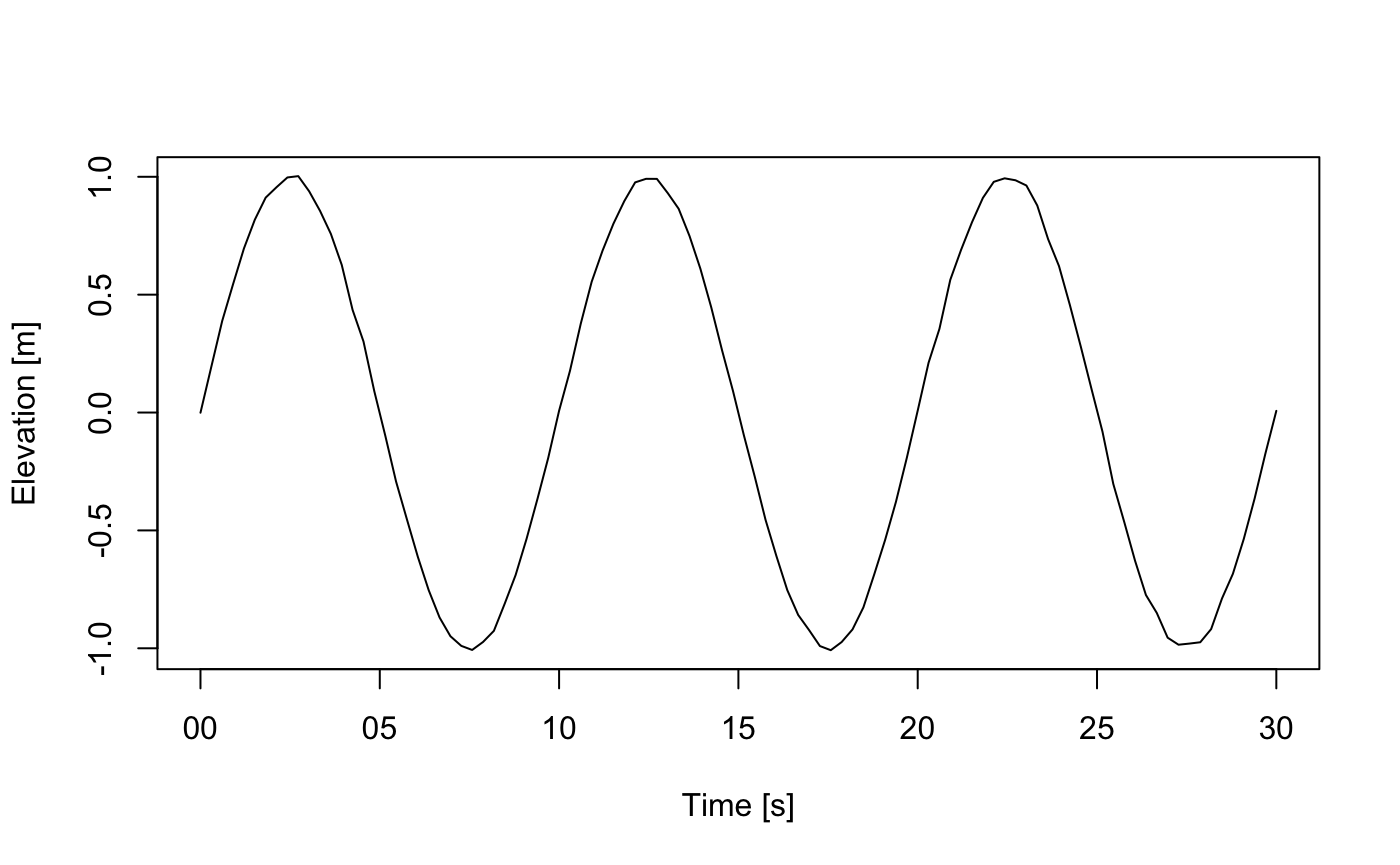
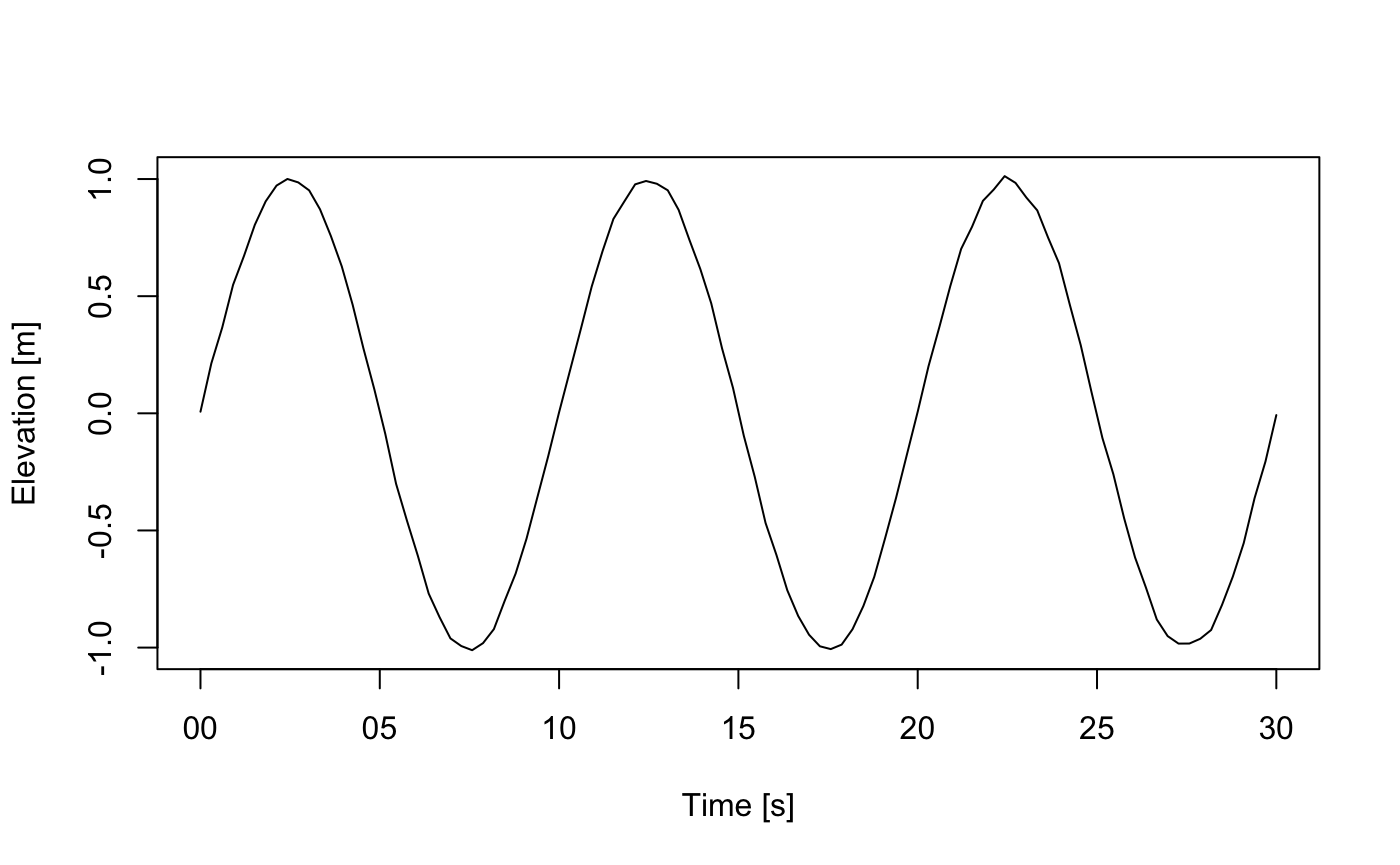
landing page gets images

diff --git a/docs/articles/subclassing.html b/docs/articles/subclassing.html
@@ -136,7 +136,7 @@
 <span class="co">#&gt;   .. ..$ flags: list()</span>
 <span class="co">#&gt;   ..@ data         : list()</span>
 <span class="co">#&gt;   ..@ processingLog:List of 2</span>
-<span class="co">#&gt;   .. ..$ time : POSIXct[1:1], format: "2020-05-05 18:23:39"</span>
+<span class="co">#&gt;   .. ..$ time : POSIXct[1:1], format: "2020-05-05 19:07:03"</span>
 <span class="co">#&gt;   .. ..$ value: chr "Create oce object"</span></pre></body></html></div>
 <p>As noted previously, it’s possible to insert <code>t</code>, <code>u</code>, and <code>v</code> directly into the <code>data</code> slot, but it’s better to use <code>oceSetData</code> to do that, because it can set up units, and it leaves a trail in the processing log.</p>
 <div class="sourceCode" id="cb4"><html><body><pre class="r"><span class="no">o</span> <span class="kw">&lt;-</span> <span class="fu"><a href="../reference/oceSetData.html">oceSetData</a></span>(<span class="no">o</span>, <span class="st">"t"</span>, <span class="no">t</span>, <span class="fu"><a href="https://rdrr.io/r/base/list.html">list</a></span>(<span class="kw">unit</span><span class="kw">=</span><span class="fu"><a href="https://rdrr.io/r/base/expression.html">expression</a></span>(<span class="no">s</span>), <span class="kw">scale</span><span class="kw">=</span><span class="st">""</span>))
@@ -155,12 +155,12 @@
 <span class="co">#&gt;     v [m/s]   -0.49996 -0.0048211    0.49998  193   0            -</span>
 <span class="co">#&gt; </span>
 <span class="co">#&gt; * Processing Log</span>
-<span class="co">#&gt;     - 2020-05-05 18:23:39 UTC: `Create oce object`</span>
-<span class="co">#&gt;     - 2020-05-05 18:23:39 UTC: `oceSetData(object = o, name = "t", value = t, unit = list(unit = expression(s),     scale = ""))`</span>
-<span class="co">#&gt;     - 2020-05-05 18:23:39 UTC: `oceSetData(object = o, name = "u", value = u, unit = list(unit = expression(m/s),     scale = ""))`</span>
-<span class="co">#&gt;     - 2020-05-05 18:23:39 UTC: `oceSetData(object = o, name = "v", value = v, unit = list(unit = expression(m/s),     scale = ""))`</span>
-<span class="co">#&gt;     - 2020-05-05 18:23:39 UTC: `oceSetMetadata(object = o, name = "longitude", value = lon)`</span>
-<span class="co">#&gt;     - 2020-05-05 18:23:39 UTC: `oceSetMetadata(object = o, name = "latitude", value = lat)`</span></pre></body></html></div>
+<span class="co">#&gt;     - 2020-05-05 19:07:03 UTC: `Create oce object`</span>
+<span class="co">#&gt;     - 2020-05-05 19:07:03 UTC: `oceSetData(object = o, name = "t", value = t, unit = list(unit = expression(s),     scale = ""))`</span>
+<span class="co">#&gt;     - 2020-05-05 19:07:03 UTC: `oceSetData(object = o, name = "u", value = u, unit = list(unit = expression(m/s),     scale = ""))`</span>
+<span class="co">#&gt;     - 2020-05-05 19:07:03 UTC: `oceSetData(object = o, name = "v", value = v, unit = list(unit = expression(m/s),     scale = ""))`</span>
+<span class="co">#&gt;     - 2020-05-05 19:07:03 UTC: `oceSetMetadata(object = o, name = "longitude", value = lon)`</span>
+<span class="co">#&gt;     - 2020-05-05 19:07:03 UTC: `oceSetMetadata(object = o, name = "latitude", value = lat)`</span></pre></body></html></div>
 <p>and individual data components may be extracted with the <code><a href="https://rdrr.io/r/base/Extract.html">[[</a></code> notation</p>
 <div class="sourceCode" id="cb7"><html><body><pre class="r"><span class="no">o</span><span class="kw">[[</span><span class="st">"latitude"</span>]]                        <span class="co"># from metadata</span>
 <span class="co">#&gt; [1] -30</span>
@@ -230,7 +230,7 @@
 <span class="co">#&gt;     v [m/s] -0.49996 -0.0048211 0.49998  193   0            -</span>
 <span class="co">#&gt; </span>
 <span class="co">#&gt; * Processing Log</span>
-<span class="co">#&gt;     - 2020-05-05 18:23:39 UTC: `create 'uv' object`</span>
+<span class="co">#&gt;     - 2020-05-05 19:07:04 UTC: `create 'uv' object`</span>
 <span class="co">#&gt; NULL</span></pre></body></html></div>
 <p>Finally, let’s make a custom method for <code>plot</code>. This is usually the most complicated part of handling any new object class, because there are usually many ways to look at data. (Some <code>oce</code> objects have over a dozen specialized plot styles.) Let’s suppose there are only two desired plot styles: one showing timeseries of <code>u</code> and <code>v</code> in a two panel plot, and the other showing how <code>u</code> and <code>v</code> covary.</p>
 <div class="sourceCode" id="cb14"><html><body><pre class="r"><span class="fu">setMethod</span>(<span class="kw">f</span><span class="kw">=</span><span class="st">"plot"</span>,
@@ -294,7 +294,7 @@
 <span class="co">#&gt;   .. ..$ flags: list()</span>
 <span class="co">#&gt;   ..@ data         : list()</span>
 <span class="co">#&gt;   ..@ processingLog:List of 2</span>
-<span class="co">#&gt;   .. ..$ time : POSIXct[1:1], format: "2020-05-05 18:23:39"</span>
+<span class="co">#&gt;   .. ..$ time : POSIXct[1:1], format: "2020-05-05 19:07:04"</span>
 <span class="co">#&gt;   .. ..$ value: chr "Create oce object"</span></pre></body></html></div>
 <p>Notice that <code>w</code> three <code>oce</code> “slots”, named <code>metadata</code>, <code>data</code> and <code>processingLog</code>. These are inherited from <code>oce</code>. The first is meant to hold information about the data, such as a file-name, an instrument number, a location of sampling, etc. The second is meant to hold actual data or measurements. And the third, not normally accessed by the user directly, holds information about the object’s evolution (note that the object considers itself an <code>oce</code> object). The names of these three slots are usually enough to keep them straight in the analyst’s head, although it can sometimes be difficult deciding whether something belongs in <code>metadata</code> or <code>data</code>.</p>
 <p>The <code>oce</code> system also provides its objects with certain operators and functions. For example, <code><a href="https://rdrr.io/r/base/Extract.html">[[</a></code> can be used to retrieve the slots, items within the slots, and (in some cases) values that may be calculated from the contents of the slots (e.g. <code>ctd</code> and similar objects related to hydrography can return calculated potential temperature or Conservative Temperature, even though neither is typically stored in such datasets).</p>
@@ -323,7 +323,7 @@
 <span class="co">#&gt;   .. ..$ station: chr "STN01"</span>
 <span class="co">#&gt;   ..@ data         : list()</span>
 <span class="co">#&gt;   ..@ processingLog:List of 2</span>
-<span class="co">#&gt;   .. ..$ time : POSIXct[1:1], format: "2020-05-05 18:23:39"</span>
+<span class="co">#&gt;   .. ..$ time : POSIXct[1:1], format: "2020-05-05 19:07:04"</span>
 <span class="co">#&gt;   .. ..$ value: chr "Create oce object"</span></pre></body></html></div>
 <p>However, there is a better way to insert metadata, with the <code>oceSetMetadata</code> function, e.g.</p>
 <div class="sourceCode" id="cb26"><html><body><pre class="r"><span class="no">w</span> <span class="kw">&lt;-</span> <span class="fu"><a href="../reference/oceSetMetadata.html">oceSetMetadata</a></span>(<span class="no">w</span>, <span class="st">"serialNumber"</span>, <span class="fl">1234</span>)</pre></body></html></div>
@@ -348,14 +348,14 @@
 <span class="co">#&gt; * Time ranges from 2019-01-01 to 2019-01-01 00:00:30 with 100 samples and mean increment 0.3030303 s</span>
 <span class="co">#&gt; * Data Overview</span>
 <span class="co">#&gt; </span>
-<span class="co">#&gt;                  Min.       Mean   Max. Dim. NAs OriginalName</span>
-<span class="co">#&gt;     elevation -1.0081 9.2344e-05 1.0028  100   0            -</span>
+<span class="co">#&gt;                  Min.        Mean   Max. Dim. NAs OriginalName</span>
+<span class="co">#&gt;     elevation -1.0111 -0.00018785 1.0124  100   0            -</span>
 <span class="co">#&gt; </span>
 <span class="co">#&gt; * Processing Log</span>
-<span class="co">#&gt;     - 2020-05-05 18:23:39 UTC: `Create oce object`</span>
-<span class="co">#&gt;     - 2020-05-05 18:23:39 UTC: `oceSetMetadata(object = w, name = "serialNumber", value = 1234)`</span>
-<span class="co">#&gt;     - 2020-05-05 18:23:39 UTC: `oceSetData(object = w, name = "time", value = t)`</span>
-<span class="co">#&gt;     - 2020-05-05 18:23:39 UTC: `oceSetData(object = w, name = "elevation", value = e)`</span></pre></body></html></div>
+<span class="co">#&gt;     - 2020-05-05 19:07:04 UTC: `Create oce object`</span>
+<span class="co">#&gt;     - 2020-05-05 19:07:04 UTC: `oceSetMetadata(object = w, name = "serialNumber", value = 1234)`</span>
+<span class="co">#&gt;     - 2020-05-05 19:07:04 UTC: `oceSetData(object = w, name = "time", value = t)`</span>
+<span class="co">#&gt;     - 2020-05-05 19:07:04 UTC: `oceSetData(object = w, name = "elevation", value = e)`</span></pre></body></html></div>
 <p>This produces a useful summary not just of the data, but also of how the object was constructed. But we can do better. In some crazy world, someone might consider measuring elevation in feet, not metres, and so we ought to specify the unit. The way to do this is with the <code>unit</code> argument of <code>oceSetData</code>. This is a somewhat tricky argument, as a study of the result of <code><a href="../reference/oceSetData.html">?oceSetData</a></code> will reveal. For now, we just show a common way, without explanation, writing</p>
 <div class="sourceCode" id="cb31"><html><body><pre class="r"><span class="no">w</span> <span class="kw">&lt;-</span> <span class="fu"><a href="../reference/oceSetData.html">oceSetData</a></span>(<span class="no">w</span>, <span class="st">"elevation"</span>, <span class="no">e</span>, <span class="kw">unit</span><span class="kw">=</span><span class="fu"><a href="https://rdrr.io/r/base/list.html">list</a></span>(<span class="kw">unit</span><span class="kw">=</span><span class="fu"><a href="https://rdrr.io/r/base/expression.html">expression</a></span>(<span class="no">m</span>),<span class="kw">scale</span><span class="kw">=</span><span class="st">""</span>))</pre></body></html></div>
 <p>This over-rides the existing definition. Now, let’s look at the summary:</p>
@@ -363,15 +363,15 @@
 <span class="co">#&gt; * Time ranges from 2019-01-01 to 2019-01-01 00:00:30 with 100 samples and mean increment 0.3030303 s</span>
 <span class="co">#&gt; * Data Overview</span>
 <span class="co">#&gt; </span>
-<span class="co">#&gt;                      Min.       Mean   Max. Dim. NAs OriginalName</span>
-<span class="co">#&gt;     elevation [m] -1.0081 9.2344e-05 1.0028  100   0            -</span>
+<span class="co">#&gt;                      Min.        Mean   Max. Dim. NAs OriginalName</span>
+<span class="co">#&gt;     elevation [m] -1.0111 -0.00018785 1.0124  100   0            -</span>
 <span class="co">#&gt; </span>
 <span class="co">#&gt; * Processing Log</span>
-<span class="co">#&gt;     - 2020-05-05 18:23:39 UTC: `Create oce object`</span>
-<span class="co">#&gt;     - 2020-05-05 18:23:39 UTC: `oceSetMetadata(object = w, name = "serialNumber", value = 1234)`</span>
-<span class="co">#&gt;     - 2020-05-05 18:23:39 UTC: `oceSetData(object = w, name = "time", value = t)`</span>
-<span class="co">#&gt;     - 2020-05-05 18:23:39 UTC: `oceSetData(object = w, name = "elevation", value = e)`</span>
-<span class="co">#&gt;     - 2020-05-05 18:23:39 UTC: `oceSetData(object = w, name = "elevation", value = e, unit = list(unit = expression(m),     scale = ""))`</span></pre></body></html></div>
+<span class="co">#&gt;     - 2020-05-05 19:07:04 UTC: `Create oce object`</span>
+<span class="co">#&gt;     - 2020-05-05 19:07:04 UTC: `oceSetMetadata(object = w, name = "serialNumber", value = 1234)`</span>
+<span class="co">#&gt;     - 2020-05-05 19:07:04 UTC: `oceSetData(object = w, name = "time", value = t)`</span>
+<span class="co">#&gt;     - 2020-05-05 19:07:04 UTC: `oceSetData(object = w, name = "elevation", value = e)`</span>
+<span class="co">#&gt;     - 2020-05-05 19:07:04 UTC: `oceSetData(object = w, name = "elevation", value = e, unit = list(unit = expression(m),     scale = ""))`</span></pre></body></html></div>
 <p>Notice that we now have a unit on the elevation, but we  have an indication that the value of that quantity was defined twice. This processing-log feature is one of the big advantages of using <code>oceSetData</code> over direct insertion into an object.</p>
 </div>
 <div id="adding-specialized-functions" class="section level2">
@@ -427,11 +427,11 @@
 <span class="co">#&gt; * Time ranges from 2019-01-01 to 2019-01-01 00:00:30 with 100 samples and mean increment 0.3030303 s</span>
 <span class="co">#&gt; * Data Overview</span>
 <span class="co">#&gt; </span>
-<span class="co">#&gt;                      Min.       Mean   Max. Dim. NAs OriginalName</span>
-<span class="co">#&gt;     elevation [m] -1.0081 9.2344e-05 1.0028  100   0            -</span>
+<span class="co">#&gt;                      Min.        Mean   Max. Dim. NAs OriginalName</span>
+<span class="co">#&gt;     elevation [m] -1.0111 -0.00018785 1.0124  100   0            -</span>
 <span class="co">#&gt; </span>
 <span class="co">#&gt; * Processing Log</span>
-<span class="co">#&gt;     - 2020-05-05 18:23:40 UTC: `create 'wave' object`</span></pre></body></html></div>
+<span class="co">#&gt;     - 2020-05-05 19:07:04 UTC: `create 'wave' object`</span></pre></body></html></div>
 <p>Notice that the units now appear, without complication to the user. Oh, and this object now knows that it is a <code>wave</code> object, not an <code>oce</code> object  our little class is getting smarter by the minute!</p>
 </div>
 <div id="specializing-the-operator" class="section level2">
@@ -452,9 +452,9 @@
 <p>The important thing to focus on is the <code>if</code> block in the function definition. Called as e.g. <code>w[["peak"]]</code> causes <code>i</code> to equal <code>"peak"</code>, and so the return value will be the maximum elevation. However, in all other instances, the return values is provided by <code>callNextMethod()</code>, and what that does is to dig one level deeper for a way to handle <code><a href="https://rdrr.io/r/base/Extract.html">[[</a></code>. At that deeper level, it finds the <code>oce</code> definition, the details of which can be found with <code><a href="../reference/sub-sub-oce-method.html">?"[[,oce-method"</a></code>.</p>
 <p>The test</p>
 <div class="sourceCode" id="cb39"><html><body><pre class="r"><span class="no">w</span><span class="kw">[[</span><span class="st">"peak"</span>]]
-<span class="co">#&gt; [1] 1.00276</span>
+<span class="co">#&gt; [1] 1.0124</span>
 <span class="fu"><a href="https://rdrr.io/r/utils/str.html">str</a></span>(<span class="no">w</span><span class="kw">[[</span><span class="st">"elevation"</span>]])
-<span class="co">#&gt;  num [1:100] -0.000715 0.194422 0.388618 0.544538 0.695991 ...</span></pre></body></html></div>
+<span class="co">#&gt;  num [1:100] 0.00696 0.21323 0.36577 0.54843 0.67129 ...</span></pre></body></html></div>
 <p>verifies that our new code works for getting the peak value, and that it falls back to the <code>oce</code> code for other calls.</p>
 </div>
 </div>

diff --git a/docs/reference/as.section.html b/docs/reference/as.section.html
@@ -256,8 +256,8 @@ and these are assembled into a section to be returned.</p>
 #&gt;     1 Stn 2 -63.6439  44.6843     181    44
 #&gt;     2  fake -63.6339  44.6843     181    44
 #&gt; * Processing Log
-#&gt;     - 2020-05-05 18:19:44 UTC: `create 'section' object`
-#&gt;     - 2020-05-05 18:19:44 UTC: `as.section(salinity = c("ctd", "fake"))`</div><div class='input'><span class='co'>## vector of CTD objects</span>
+#&gt;     - 2020-05-05 19:02:41 UTC: `create 'section' object`
+#&gt;     - 2020-05-05 19:02:41 UTC: `as.section(salinity = c("ctd", "fake"))`</div><div class='input'><span class='co'>## vector of CTD objects</span>
 <span class='no'>ctds</span> <span class='kw'>&lt;-</span> <span class='fu'><a href='https://rdrr.io/r/base/vector.html'>vector</a></span>(<span class='st'>"list"</span>, <span class='fl'>2</span>)
 <span class='no'>ctds</span><span class='kw'>[[</span><span class='fl'>1</span>]] <span class='kw'>&lt;-</span> <span class='no'>ctd</span>
 <span class='no'>ctds</span><span class='kw'>[[</span><span class='fl'>2</span>]] <span class='kw'>&lt;-</span> <span class='no'>fake</span>
@@ -271,8 +271,8 @@ and these are assembled into a section to be returned.</p>
 #&gt;     1 Stn 2 -63.6439  44.6843     181    44
 #&gt;     2  fake -63.6339  44.6843     181    44
 #&gt; * Processing Log
-#&gt;     - 2020-05-05 18:19:44 UTC: `create 'section' object`
-#&gt;     - 2020-05-05 18:19:44 UTC: `as.section(salinity = ctds)`</div><div class='input'><span class='co'>## argo data (a subset)</span>
+#&gt;     - 2020-05-05 19:02:41 UTC: `create 'section' object`
+#&gt;     - 2020-05-05 19:02:41 UTC: `as.section(salinity = ctds)`</div><div class='input'><span class='co'>## argo data (a subset)</span>
 <span class='fu'><a href='https://rdrr.io/r/utils/data.html'>data</a></span>(<span class='no'>argo</span>)
 <span class='no'>sec3</span> <span class='kw'>&lt;-</span> <span class='fu'>as.section</span>(<span class='fu'><a href='https://rdrr.io/r/base/subset.html'>subset</a></span>(<span class='no'>argo</span>, <span class='no'>profile</span><span class='kw'>&lt;</span><span class='fl'>5</span>))
 <span class='fu'><a href='https://rdrr.io/r/base/summary.html'>summary</a></span>(<span class='no'>sec3</span>)</div><div class='output co'>#&gt; Section Summary
@@ -287,8 +287,8 @@ and these are assembled into a section to be returned.</p>
 #&gt;     3     3 -22.2570  61.1060      56  1768
 #&gt;     4     4 -22.4160  61.2520      56  1768
 #&gt; * Processing Log
-#&gt;     - 2020-05-05 18:19:44 UTC: `create 'section' object`
-#&gt;     - 2020-05-05 18:19:44 UTC: `as.section(salinity = subset(argo, profile &lt; 5))`</div><div class='input'>
+#&gt;     - 2020-05-05 19:02:41 UTC: `create 'section' object`
+#&gt;     - 2020-05-05 19:02:41 UTC: `as.section(salinity = subset(argo, profile &lt; 5))`</div><div class='input'>
 </div></pre>
   </div>
   <div class="col-md-3 hidden-xs hidden-sm" id="pkgdown-sidebar">

diff --git a/docs/reference/as.ctd.html b/docs/reference/as.ctd.html
@@ -444,9 +444,9 @@ Engineering</em>, volume <strong>5</strong>, pages 22-23.</p>
 #&gt;     fluorescence [mg/m³]     0.41042 1.7903 4.7561   50   0            -
 #&gt; 
 #&gt; * Processing Log
-#&gt;     - 2020-05-05 18:19:42 UTC: `create 'ctd' object`
-#&gt;     - 2020-05-05 18:19:42 UTC: `as.ctd(salinity = salinity, temperature = temperature, pressure = pressure)`
-#&gt;     - 2020-05-05 18:19:42 UTC: `oceSetData(object = ctd, name = "fluorescence", value = fluo,     unit = list(unit = expression(mg/m^3), scale = ""))`</div><div class='input'>
+#&gt;     - 2020-05-05 19:02:39 UTC: `create 'ctd' object`
+#&gt;     - 2020-05-05 19:02:39 UTC: `as.ctd(salinity = salinity, temperature = temperature, pressure = pressure)`
+#&gt;     - 2020-05-05 19:02:39 UTC: `oceSetData(object = ctd, name = "fluorescence", value = fluo,     unit = list(unit = expression(mg/m^3), scale = ""))`</div><div class='input'>
 <span class='co'>## 2. fake data, with supplied units (which are the defaults, actually)</span>
 <span class='no'>ctd</span> <span class='kw'>&lt;-</span> <span class='fu'>as.ctd</span>(<span class='no'>salinity</span>, <span class='no'>temperature</span>, <span class='no'>pressure</span>,
     <span class='kw'>units</span><span class='kw'>=</span><span class='fu'><a href='https://rdrr.io/r/base/list.html'>list</a></span>(<span class='kw'>salinity</span><span class='kw'>=</span><span class='fu'><a href='https://rdrr.io/r/base/list.html'>list</a></span>(<span class='kw'>unit</span><span class='kw'>=</span><span class='fu'><a href='https://rdrr.io/r/base/expression.html'>expression</a></span>(), <span class='kw'>scale</span><span class='kw'>=</span><span class='st'>"PSS-78"</span>),

diff --git a/docs/reference/read.xbt.html b/docs/reference/read.xbt.html
@@ -228,7 +228,7 @@ https://pages.uoregon.edu/drt/MGL0910_Science_Report/attachments/MK21_ISA_Manual
 <span class='fu'><a href='https://rdrr.io/r/base/summary.html'>summary</a></span>(<span class='no'>xbt</span>)</div><div class='output co'>#&gt; xbt summary
 #&gt; -----------
 #&gt; 
-#&gt; * File source:        "/private/var/folders/rx/k1x_t_q12zb9hbjr4ldxmjc80000gn/T/Rtmpsr92Yb/temp_libpath14e1067ebea8/oce/extdata/xbt.edf"
+#&gt; * File source:        "/private/var/folders/rx/k1x_t_q12zb9hbjr4ldxmjc80000gn/T/Rtmp2BFbuA/temp_libpath156af5b83cade/oce/extdata/xbt.edf"
 #&gt; * Serial Number:      0
 #&gt; * Longitude:          4.005
 #&gt; * Latitude:           -4
@@ -241,8 +241,8 @@ https://pages.uoregon.edu/drt/MGL0910_Science_Report/attachments/MK21_ISA_Manual
 #&gt;     soundSpeed [m/s]         1575.3 1575.3 1575.4    6   0 Sound Velocity
 #&gt; 
 #&gt; * Processing Log
-#&gt;     - 2020-05-05 18:21:52 UTC: `create 'xbt' object`
-#&gt;     - 2020-05-05 18:21:52 UTC: `read.xbt.edf(file = file)`</div><div class='input'><span class='fu'><a href='https://rdrr.io/r/base/plot.html'>plot</a></span>(<span class='no'>xbt</span>)</div><div class='img'><img src='read.xbt-1.png' alt='' width='700' height='433' /></div><div class='input'>
+#&gt;     - 2020-05-05 19:05:04 UTC: `create 'xbt' object`
+#&gt;     - 2020-05-05 19:05:04 UTC: `read.xbt.edf(file = file)`</div><div class='input'><span class='fu'><a href='https://rdrr.io/r/base/plot.html'>plot</a></span>(<span class='no'>xbt</span>)</div><div class='img'><img src='read.xbt-1.png' alt='' width='700' height='433' /></div><div class='input'>
 </div></pre>
   </div>
   <div class="col-md-3 hidden-xs hidden-sm" id="pkgdown-sidebar">

diff --git a/docs/reference/read.xbt.edf.html b/docs/reference/read.xbt.edf.html
@@ -210,7 +210,7 @@ can find a way to otherwise silence the NOTE.</p>
 <span class='fu'><a href='https://rdrr.io/r/base/summary.html'>summary</a></span>(<span class='no'>xbt</span>)</div><div class='output co'>#&gt; xbt summary
 #&gt; -----------
 #&gt; 
-#&gt; * File source:        "/private/var/folders/rx/k1x_t_q12zb9hbjr4ldxmjc80000gn/T/Rtmpsr92Yb/temp_libpath14e1067ebea8/oce/extdata/xbt.edf"
+#&gt; * File source:        "/private/var/folders/rx/k1x_t_q12zb9hbjr4ldxmjc80000gn/T/Rtmp2BFbuA/temp_libpath156af5b83cade/oce/extdata/xbt.edf"
 #&gt; * Serial Number:      0
 #&gt; * Longitude:          4.005
 #&gt; * Latitude:           -4
@@ -223,8 +223,8 @@ can find a way to otherwise silence the NOTE.</p>
 #&gt;     soundSpeed [m/s]         1575.3 1575.3 1575.4    6   0 Sound Velocity
 #&gt; 
 #&gt; * Processing Log
-#&gt;     - 2020-05-05 18:21:52 UTC: `create 'xbt' object`
-#&gt;     - 2020-05-05 18:21:52 UTC: `read.xbt.edf(file = file)`</div><div class='input'><span class='fu'><a href='https://rdrr.io/r/base/plot.html'>plot</a></span>(<span class='no'>xbt</span>)</div><div class='img'><img src='read.xbt.edf-1.png' alt='' width='700' height='433' /></div><div class='input'>
+#&gt;     - 2020-05-05 19:05:05 UTC: `create 'xbt' object`
+#&gt;     - 2020-05-05 19:05:05 UTC: `read.xbt.edf(file = file)`</div><div class='input'><span class='fu'><a href='https://rdrr.io/r/base/plot.html'>plot</a></span>(<span class='no'>xbt</span>)</div><div class='img'><img src='read.xbt.edf-1.png' alt='' width='700' height='433' /></div><div class='input'>
 </div></pre>
   </div>
   <div class="col-md-3 hidden-xs hidden-sm" id="pkgdown-sidebar">

diff --git a/docs/reference/as.sealevel.html b/docs/reference/as.sealevel.html
@@ -294,8 +294,8 @@ with them.</p>
 #&gt;     elevation [m]   -2 0.00089588    2 8761   0            -
 #&gt; 
 #&gt; * Processing Log
-#&gt;     - 2020-05-05 18:19:43 UTC: `create 'sealevel' object`
-#&gt;     - 2020-05-05 18:19:43 UTC: `as.sealevel(elevation = elevation)`</div><div class='input'>
+#&gt;     - 2020-05-05 19:02:41 UTC: `create 'sealevel' object`
+#&gt;     - 2020-05-05 19:02:41 UTC: `as.sealevel(elevation = elevation)`</div><div class='input'>
 <span class='co'># As above, but start at the Y2K time.</span>
 <span class='no'>time</span> <span class='kw'>&lt;-</span> <span class='fu'><a href='https://rdrr.io/r/base/as.POSIXlt.html'>as.POSIXct</a></span>(<span class='st'>"2000-01-01"</span>) + <span class='no'>h</span> * <span class='fl'>3600</span>
 <span class='no'>sl</span> <span class='kw'>&lt;-</span> <span class='fu'>as.sealevel</span>(<span class='no'>elevation</span>, <span class='no'>time</span>)
@@ -313,8 +313,8 @@ with them.</p>
 #&gt;     elevation [m]   -2 0.00089588    2 8761   0            -
 #&gt; 
 #&gt; * Processing Log
-#&gt;     - 2020-05-05 18:19:43 UTC: `create 'sealevel' object`
-#&gt;     - 2020-05-05 18:19:43 UTC: `as.sealevel(elevation = elevation, time = time)`</div></pre>
+#&gt;     - 2020-05-05 19:02:41 UTC: `create 'sealevel' object`
+#&gt;     - 2020-05-05 19:02:41 UTC: `as.sealevel(elevation = elevation, time = time)`</div></pre>
   </div>
   <div class="col-md-3 hidden-xs hidden-sm" id="pkgdown-sidebar">
     <nav id="toc" data-toggle="toc" class="sticky-top">

diff --git a/docs/reference/initialize-ctd-method.html b/docs/reference/initialize-ctd-method.html
@@ -297,7 +297,7 @@ on elements stored in <code>ctd</code> objects.</p>
 #&gt;     salinity [PSS-78]        35.1 35.2 35.3    3   0            -
 #&gt; 
 #&gt; * Processing Log
-#&gt;     - 2020-05-05 18:20:19 UTC: `create 'ctd' object`</div><div class='input'><span class='fu'><a href='https://rdrr.io/r/base/plot.html'>plot</a></span>(<span class='no'>ctd</span>, <span class='kw'>eos</span><span class='kw'>=</span><span class='st'>"unesco"</span>)</div><div class='img'><img src='initialize-ctd-method-1.png' alt='' width='700' height='433' /></div><div class='input'>
+#&gt;     - 2020-05-05 19:03:23 UTC: `create 'ctd' object`</div><div class='input'><span class='fu'><a href='https://rdrr.io/r/base/plot.html'>plot</a></span>(<span class='no'>ctd</span>, <span class='kw'>eos</span><span class='kw'>=</span><span class='st'>"unesco"</span>)</div><div class='img'><img src='initialize-ctd-method-1.png' alt='' width='700' height='433' /></div><div class='input'>
 <span class='co'>## 3. as 2, but insert location and plot with GSW equation of state.</span>
 <span class='no'>ctd</span> <span class='kw'>&lt;-</span> <span class='fu'><a href='oceSetMetadata.html'>oceSetMetadata</a></span>(<span class='no'>ctd</span>, <span class='st'>"latitude"</span>, <span class='fl'>44</span>)
 <span class='no'>ctd</span> <span class='kw'>&lt;-</span> <span class='fu'><a href='oceSetMetadata.html'>oceSetMetadata</a></span>(<span class='no'>ctd</span>, <span class='st'>"longitude"</span>, -<span class='fl'>63</span>)

diff --git a/docs/articles/adp.html b/docs/articles/adp.html
@@ -292,8 +292,8 @@
 <span class="co">#&gt; ---</span>
 <span class="co">#&gt; Signif. codes:  0 '***' 0.001 '**' 0.01 '*' 0.05 '.' 0.1 ' ' 1</span>
 <span class="co">#&gt; * Processing Log</span>
-<span class="co">#&gt;     - 2020-05-05 18:22:58 UTC: `create 'tidem' object`</span>
-<span class="co">#&gt;     - 2020-05-05 18:22:58 UTC: `tidem(t = as.sealevel(pressure, time))`</span></pre></body></html></div>
+<span class="co">#&gt;     - 2020-05-05 19:06:17 UTC: `create 'tidem' object`</span>
+<span class="co">#&gt;     - 2020-05-05 19:06:17 UTC: `tidem(t = as.sealevel(pressure, time))`</span></pre></body></html></div>
 <p>(Note that it fitted for M2, but not S2, because the Rayleigh criterion prevents inferring both, and the conventional tidal analysis favours M2 over S2 if the time series is too short to fit for more than one semi-diurnal constituent.)</p>
 <p>A useful step might be to draw a tidal fit along with the data. It makes sense to construct a finer time grid, to get a smooth curve, as in the following (see <code><a href="../reference/predict.tidem.html">?predict.tidem</a></code>).</p>
 <div class="sourceCode" id="cb26"><html><body><pre class="r"><span class="fu"><a href="../reference/oce.plot.ts.html">oce.plot.ts</a></span>(<span class="no">time</span>, <span class="no">pressure</span>, <span class="kw">type</span><span class="kw">=</span><span class="st">"p"</span>, <span class="kw">col</span><span class="kw">=</span><span class="st">"blue"</span>)

diff --git a/docs/reference/tidem.html b/docs/reference/tidem.html
@@ -451,8 +451,8 @@ Computers and Geosciences, 28, 929-937.</p>
 #&gt; ---
 #&gt; Signif. codes:  0 ‘***’ 0.001 ‘**’ 0.01 ‘*’ 0.05 ‘.’ 0.1 ‘ ’ 1
 #&gt; * Processing Log
-#&gt;     - 2020-05-05 18:22:43 UTC: `create 'tidem' object`
-#&gt;     - 2020-05-05 18:22:43 UTC: `tidem(t = sealevelTuktoyaktuk)`</div><div class='input'>
+#&gt;     - 2020-05-05 19:06:01 UTC: `create 'tidem' object`
+#&gt;     - 2020-05-05 19:06:01 UTC: `tidem(t = sealevelTuktoyaktuk)`</div><div class='input'>
 <span class='co'># AIC analysis</span>
 <span class='fu'><a href='https://rdrr.io/r/stats/extractAIC.html'>extractAIC</a></span>(<span class='no'>tide</span><span class='kw'>[[</span><span class='st'>"model"</span>]])</div><div class='output co'>#&gt; [1]   71.0000 -606.0823</div><div class='input'>
 <span class='co'># Fake data at M2</span>
@@ -481,8 +481,8 @@ Computers and Geosciences, 28, 929-937.</p>
 #&gt; ---
 #&gt; Signif. codes:  0 ‘***’ 0.001 ‘**’ 0.01 ‘*’ 0.05 ‘.’ 0.1 ‘ ’ 1
 #&gt; * Processing Log
-#&gt;     - 2020-05-05 18:22:43 UTC: `create 'tidem' object`
-#&gt;     - 2020-05-05 18:22:43 UTC: `tidem(t = sl)`</div><div class='input'>
+#&gt;     - 2020-05-05 19:06:01 UTC: `create 'tidem' object`
+#&gt;     - 2020-05-05 19:06:01 UTC: `tidem(t = sl)`</div><div class='input'>
 </div></pre>
   </div>
   <div class="col-md-3 hidden-xs hidden-sm" id="pkgdown-sidebar">

diff --git a/docs/reference/read.adp.rdi.html b/docs/reference/read.adp.rdi.html
@@ -579,7 +579,7 @@ P/N 957-6171-00 (June 2001) <code>WinRiver User Guide International Version.pdf.
 #&gt; * Instrument:         adcp
 #&gt; * Serial number:      unknown
 #&gt; * Firmware version:   16.28
-#&gt; * Source filename:    ``/private/var/folders/rx/k1x_t_q12zb9hbjr4ldxmjc80000gn/T/Rtmpsr92Yb/temp_libpath14e1067ebea8/oce/extdata/adp_rdi.000``
+#&gt; * Source filename:    ``/private/var/folders/rx/k1x_t_q12zb9hbjr4ldxmjc80000gn/T/Rtmp2BFbuA/temp_libpath156af5b83cade/oce/extdata/adp_rdi.000``
 #&gt; * Location:           unknown latitude, unknown longitude
 #&gt; * Number of profiles: 9 
 #&gt; * Number of cells:    84 
@@ -633,7 +633,7 @@ P/N 957-6171-00 (June 2001) <code>WinRiver User Guide International Version.pdf.
 #&gt;     contaminationSensor         159      159    159      9   0            -
 #&gt; 
 #&gt; * Processing Log
-#&gt;     - 2020-05-05 18:21:42 UTC: `read.adp.rdi(file = system.file("extdata", "adp_rdi.000", package = "oce"))`</div><div class='input'>
+#&gt;     - 2020-05-05 19:04:54 UTC: `read.adp.rdi(file = system.file("extdata", "adp_rdi.000", package = "oce"))`</div><div class='input'>
 </div></pre>
   </div>
   <div class="col-md-3 hidden-xs hidden-sm" id="pkgdown-sidebar">

diff --git a/docs/reference/CTD_BCD2014666_008_1_DN.ODF.gz.html b/docs/reference/CTD_BCD2014666_008_1_DN.ODF.gz.html
@@ -252,9 +252,9 @@ at "Station 2" of the Halifax Line on the Scotian Shelf.</p>
 #&gt;     QC:            "0" 290, "2048" 3, "4096" 1
 #&gt; 
 #&gt; * Processing Log
-#&gt;     - 2020-05-05 18:19:28 UTC: `create 'ctd' object`
-#&gt;     - 2020-05-05 18:19:28 UTC: `as.ctd(salinity = odf, debug = debug - 1)`
-#&gt;     - 2020-05-05 18:19:28 UTC: `as.ctd(salinity = odf, debug = debug - 1)`</div><div class='input'><span class='fu'><a href='https://rdrr.io/r/base/plot.html'>plot</a></span>(<span class='no'>ctd</span>)</div><div class='img'><img src='CTD_BCD2014666_008_1_DN.ODF.gz-1.png' alt='' width='700' height='433' /></div><div class='input'>
+#&gt;     - 2020-05-05 19:02:24 UTC: `create 'ctd' object`
+#&gt;     - 2020-05-05 19:02:24 UTC: `as.ctd(salinity = odf, debug = debug - 1)`
+#&gt;     - 2020-05-05 19:02:24 UTC: `as.ctd(salinity = odf, debug = debug - 1)`</div><div class='input'><span class='fu'><a href='https://rdrr.io/r/base/plot.html'>plot</a></span>(<span class='no'>ctd</span>)</div><div class='img'><img src='CTD_BCD2014666_008_1_DN.ODF.gz-1.png' alt='' width='700' height='433' /></div><div class='input'>
 </div></pre>
   </div>
   <div class="col-md-3 hidden-xs hidden-sm" id="pkgdown-sidebar">

diff --git a/docs/reference/ctd-class.html b/docs/reference/ctd-class.html
@@ -364,8 +364,8 @@ and sufficiently skilled users may even manipulate the contents directly.</p>
 #&gt;     pressure [dbar]             1    2    3    3   0            -
 #&gt; 
 #&gt; * Processing Log
-#&gt;     - 2020-05-05 18:19:54 UTC: `create 'ctd' object`
-#&gt;     - 2020-05-05 18:19:54 UTC: `as.ctd(salinity = 35 + 1:3/10, temperature = 10 - 1:3/10, pressure = 1:3)`</div><div class='input'>
+#&gt;     - 2020-05-05 19:02:55 UTC: `create 'ctd' object`
+#&gt;     - 2020-05-05 19:02:55 UTC: `as.ctd(salinity = 35 + 1:3/10, temperature = 10 - 1:3/10, pressure = 1:3)`</div><div class='input'>
 <span class='co'># 2. Fix a typo in a station latitude (fake! it's actually okay)</span>
 <span class='fu'><a href='https://rdrr.io/r/utils/data.html'>data</a></span>(<span class='no'>ctd</span>)
 <span class='no'>ctd</span> <span class='kw'>&lt;-</span> <span class='fu'><a href='oceSetMetadata.html'>oceSetMetadata</a></span>(<span class='no'>ctd</span>, <span class='st'>"latitude"</span>, <span class='no'>ctd</span><span class='kw'>[[</span><span class='st'>"latitude"</span>]]-<span class='fl'>0.001</span>,
